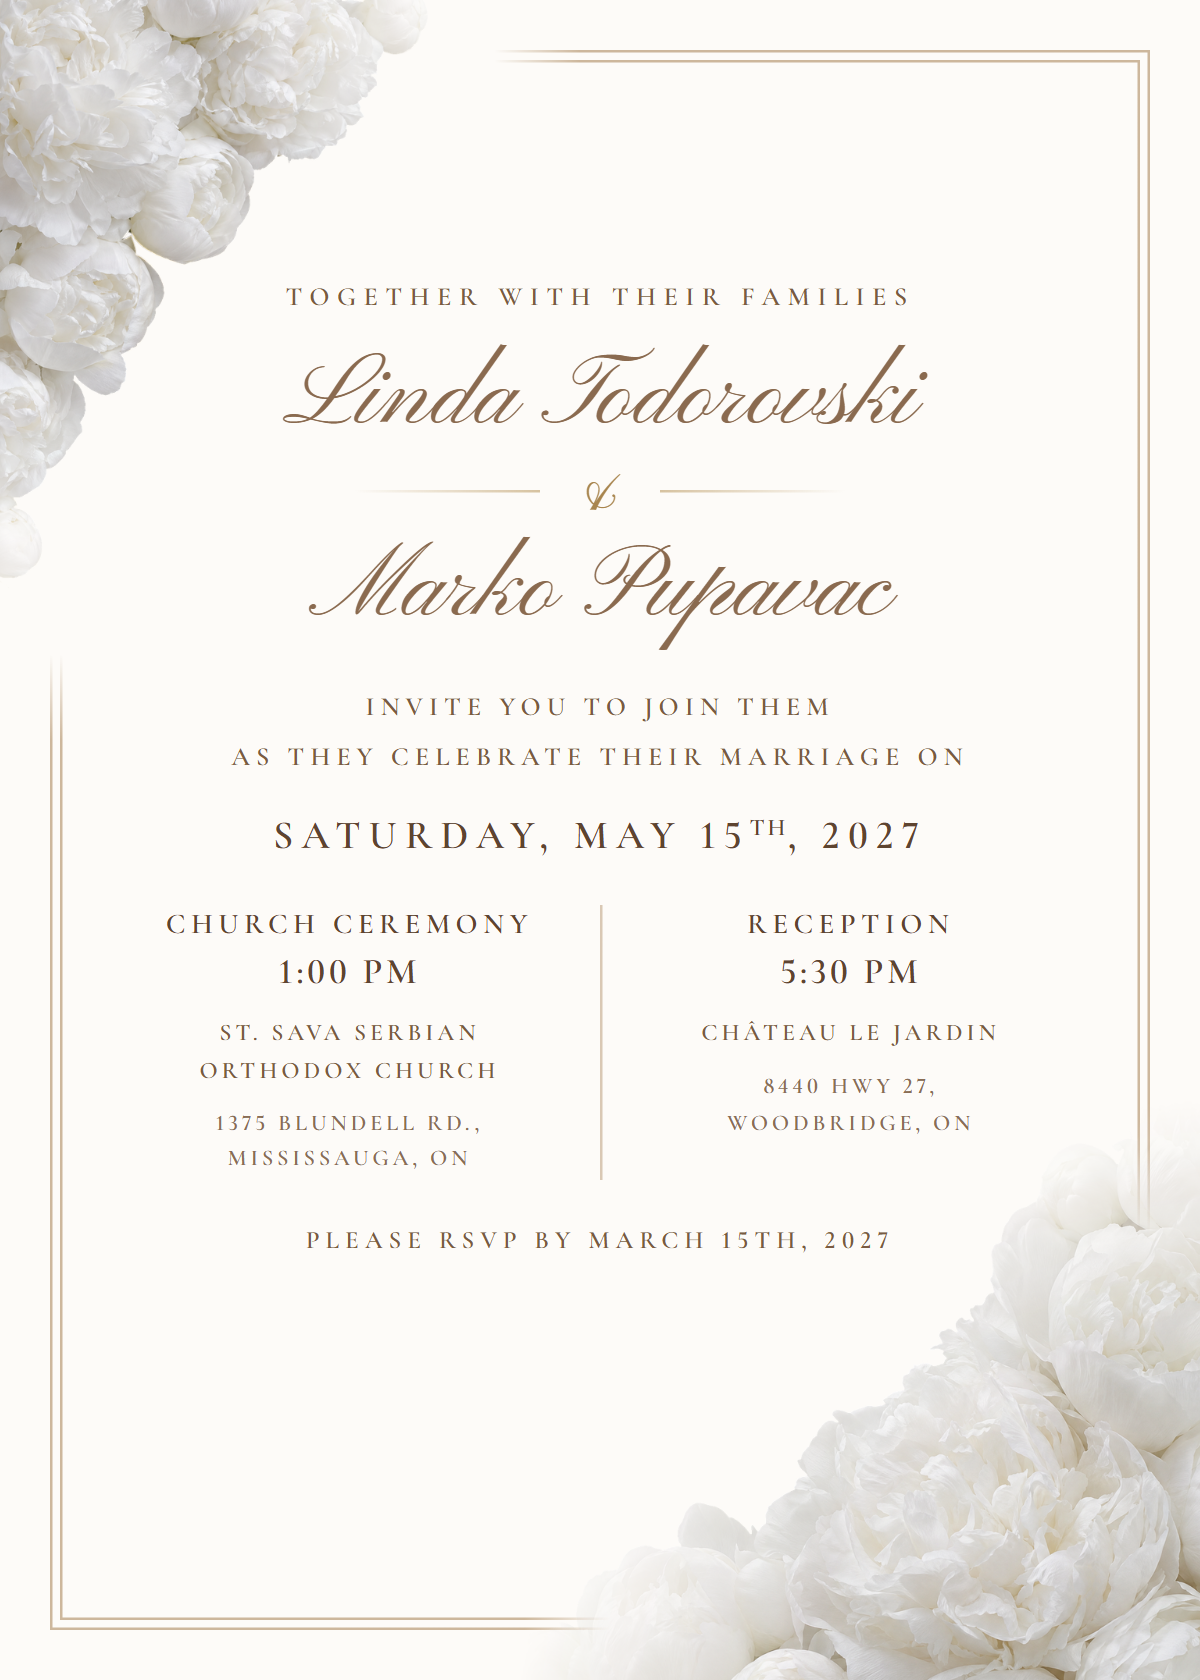
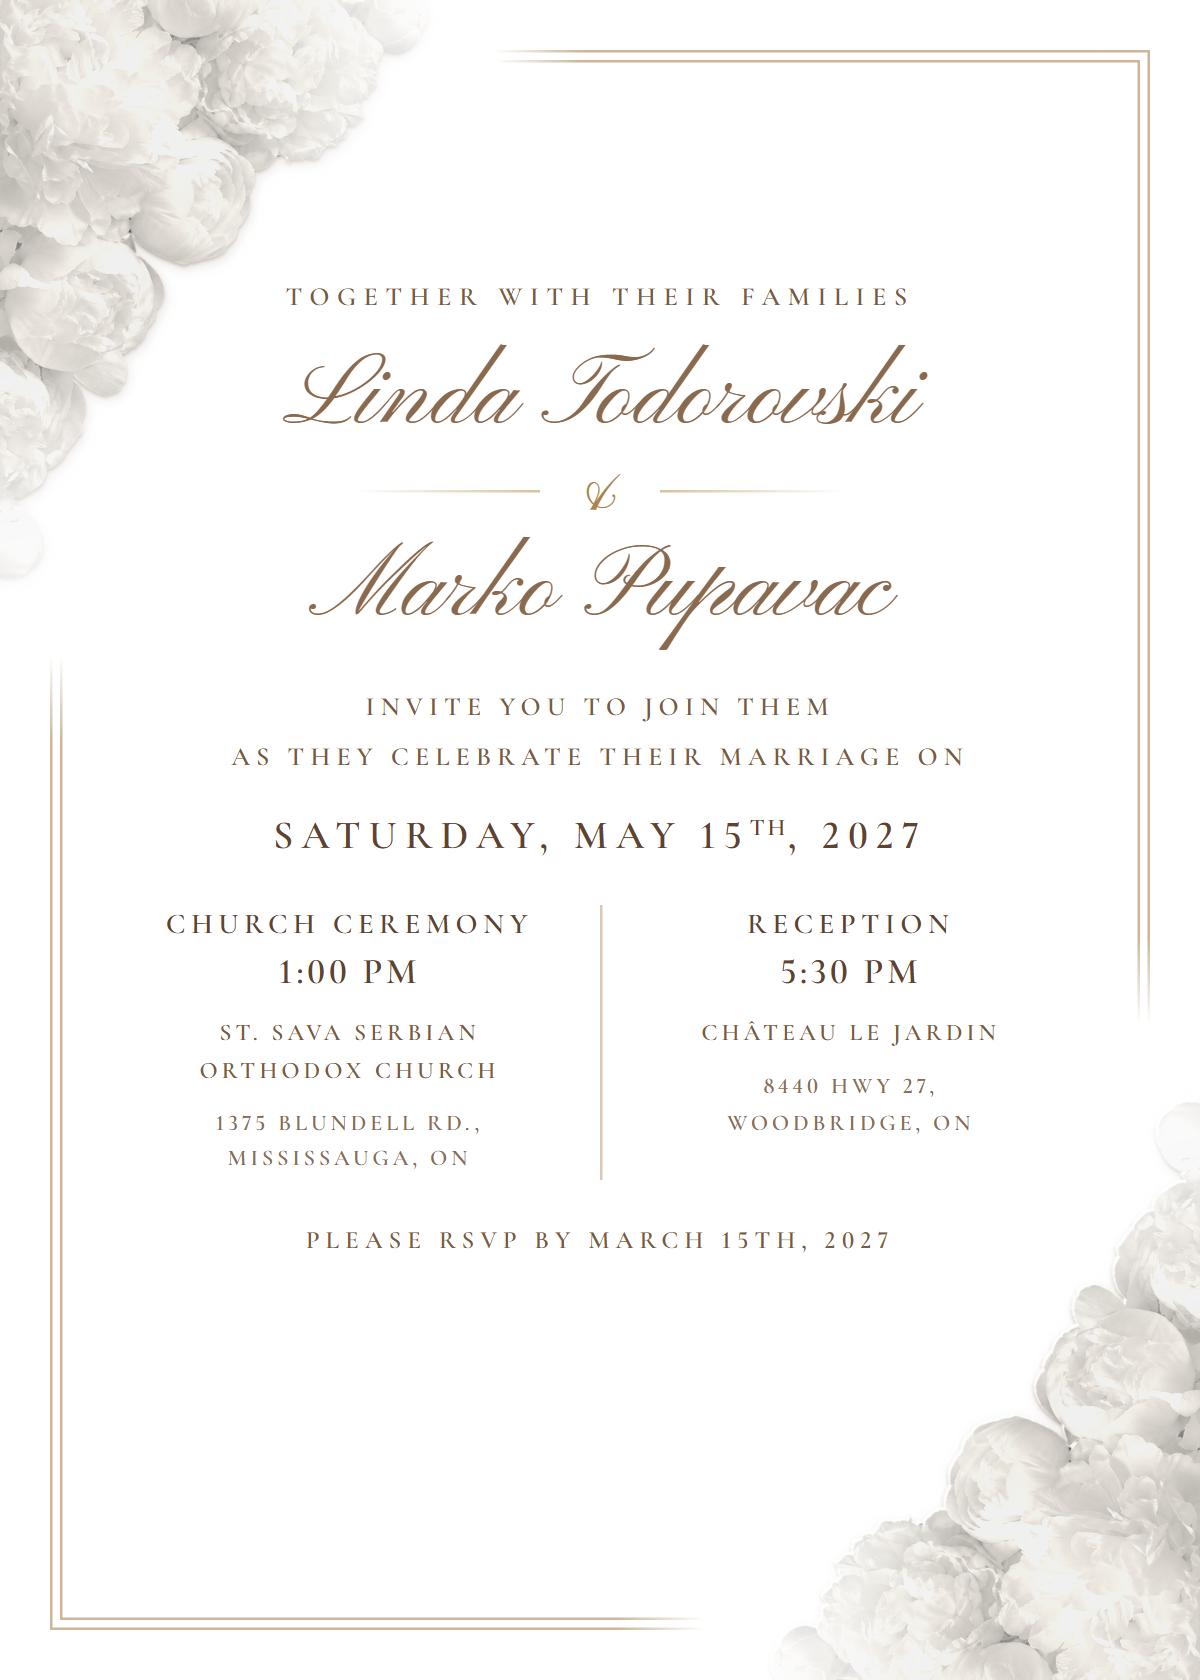
Embossed printed invitation with L & M monogram back
- Printed card on blind-embossed paper (scripts/emboss-paper.mjs, from
  Higgsfield art): a peony in each corner with vines running along the
  border and tapering to tendril tips; border lines break at each peony
- Back of the card: embossed peony wreath with the L & M monogram,
  centred on the wreath, and the date
- /admin/print and scripts/invitation-art.mjs output front and back
  (two-page PDF, 300 dpi PNG of each side)
- Invitation background is pure white; email card keeps the
  photographed peonies

diff --git a/lib/invitation-card.ts b/lib/invitation-card.ts
@@ -1,13 +1,15 @@
 // The invitation card, laid out like the printed original: double-line border, the original wording
-// and order, the two-column ceremony / reception block, and real white peonies in the top-left corner
-// and along the bottom border, fading softly into the paper.
+// and order, and the two-column ceremony / reception block.
 //
 // One template, two uses:
-//   - print: a 5 x 7 in card with a "Scan to RSVP" QR code (app/admin/print, scripts/invitation-art.mjs)
-//   - digital: the same card without the QR, as the centrepiece of the invitation email
+//   - print (emboss: true): a 5 x 7 in card on blind-embossed paper (peonies with vines running along the
+//     border, built by scripts/emboss-paper.mjs), a "Scan to RSVP" QR code, and an L & M monogram wreath on
+//     the back (back: true)
+//   - digital: the card with the photographed white peonies in the top-left and bottom-right corners, as
+//     the centrepiece of the invitation email
 // Self-contained (no app imports) so the Node render script can load it too.
 
-export type CardArt = { corner: string; border: string };
+export type CardArt = { corner: string; border: string; paperFront?: string; paperBack?: string };
 
 const FONTS =
   '<link rel="preconnect" href="https://fonts.googleapis.com"><link href="https://fonts.googleapis.com/css2?family=Cormorant+Garamond:wght@500;600&family=Pinyon+Script&display=block" rel="stylesheet">';
@@ -15,48 +17,97 @@ const FONTS =
 /** Card is drawn at 480 x 672 CSS px = 5 x 7 in at 96 px/in. */
 export const CARD = { width: 480, height: 672 } as const;
 
-export function invitationCardHtml({ art, qrSvg, page = false }: { art: CardArt; qrSvg?: string; page?: boolean }) {
+export function invitationCardHtml({
+  art,
+  qrSvg,
+  page = false,
+  emboss = false,
+  back = false,
+}: {
+  art: CardArt;
+  qrSvg?: string;
+  page?: boolean;
+  /** use the embossed paper (art.paperFront) instead of the photographed peonies */
+  emboss?: boolean;
+  /** add the monogram back of the card (art.paperBack) */
+  back?: boolean;
+}) {
   const qr = qrSvg
     ? `<div class="qr"><div class="qr-code">${qrSvg}</div><div class="qr-label">Scan to RSVP</div></div>`
     : "";
+  const flowers = emboss
+    ? ""
+    : `<div class="corner"><img src="${art.corner}" alt=""></div>
+  <div class="border"><img src="${art.border}" alt=""></div>`;
+  const backCard = back
+    ? `<div class="sheet-gap"></div>
+<div class="card back">
+  <div class="mono" aria-label="L and M"><span class="l">L</span><span class="a">&amp;</span><span class="l">M</span></div>
+  <p class="back-date">May 15th, 2027</p>
+</div>`
+    : "";
+  const bar = page
+    ? `<div class="bar"><p>Your printable invitation (5 × 7 in)${back ? ", front and back" : ""}. Print it ${back ? "double-sided " : ""}on cardstock, or choose <b>Save as PDF</b> to send it to a print shop.</p><p style="margin-top:10px"><button onclick="window.print()">Print or save as PDF</button></p></div>`
+    : "";
+
   return `<!doctype html>
 <html lang="en"><head><meta charset="utf-8"><title>Linda &amp; Marko · Invitation</title>${FONTS}
 <style>
   @page { size: 5in 7in; margin: 0; }
   * { margin: 0; padding: 0; box-sizing: border-box; }
-  html, body { background: ${page ? "#ece5dc" : "#fdfbf8"}; }
+  html, body { background: ${page ? "#ece5dc" : "#ffffff"}; }
   body { font-family: 'Cormorant Garamond', Georgia, serif; color: #6f5440; -webkit-font-smoothing: antialiased;
     font-variant-numeric: lining-nums; -webkit-print-color-adjust: exact; print-color-adjust: exact; }
-  ${page ? `body { min-height: 100vh; display: grid; place-items: center; gap: 18px; padding: 32px 16px; }
-  .bar { font-family: system-ui, sans-serif; font-size: 14px; color: #5e4430; text-align: center; max-width: 480px; line-height: 1.5; }
+  ${
+    page
+      ? `body { min-height: 100vh; display: flex; flex-direction: column; align-items: center; padding: 32px 16px; }
+  .bar { font-family: system-ui, sans-serif; font-size: 14px; color: #5e4430; text-align: center; max-width: 480px; line-height: 1.5; margin-bottom: 18px; }
   .bar button { font: inherit; font-weight: 600; padding: 10px 22px; border-radius: 999px; border: 0; background: #5e4430; color: #fff; cursor: pointer; }
   .card { box-shadow: 0 2px 6px rgb(94 68 48 / .08), 0 30px 60px -30px rgb(94 68 48 / .35); }
-  @media print { html, body { background: #fdfbf8; } body { display: block; padding: 0; min-height: 0; } .bar { display: none; } .card { box-shadow: none; } }` : ""}
+  @media print { html, body { background: #ffffff; } body { display: block; padding: 0; min-height: 0; } .bar { display: none; } .card { box-shadow: none; } }`
+      : ""
+  }
 
-  .card { position: relative; width: ${CARD.width}px; height: ${CARD.height}px; overflow: hidden; background: #fdfbf8; break-inside: avoid; }
-  /* The double border, drawn as separate lines so each one stops short of the peonies with a
-     short, clean taper (like a printed frame broken by florals) instead of running under them. */
+  .card { position: relative; width: ${CARD.width}px; height: ${CARD.height}px; overflow: hidden; background: #ffffff; break-inside: avoid; }
+  .sheet-gap { height: 24px; }
+  @media print { .sheet-gap { display: none; } .card.back { break-before: page; } }
+
+  /* The double border, drawn as separate lines so each one stops short of the peonies with a short,
+     clean taper (like a printed frame broken by florals). */
   .ln { position: absolute; --c: #cdb79c; --t: 34px; }
   .ln.h { height: 1px; }
   .ln.v { width: 1px; }
-  /* top + right: begin after the top-left spray, end above the bottom-right cluster */
   .ln.top { top: var(--o); left: 198px; right: var(--o); background: linear-gradient(90deg, transparent, var(--c) var(--t)); }
-  .ln.right { right: var(--o); top: var(--o); bottom: 178px; background: linear-gradient(180deg, var(--c) calc(100% - var(--t)), transparent); }
-  /* left + bottom: begin below the top-left spray, end before the bottom-right cluster */
+  .ln.right { right: var(--o); top: var(--o); bottom: 262px; background: linear-gradient(180deg, var(--c) calc(100% - var(--t)), transparent); }
   .ln.left { left: var(--o); top: 262px; bottom: var(--o); background: linear-gradient(180deg, transparent, var(--c) var(--t)); }
-  .ln.bottom { bottom: var(--o); left: var(--o); right: 236px; background: linear-gradient(90deg, var(--c) calc(100% - var(--t)), transparent); }
+  .ln.bottom { bottom: var(--o); left: var(--o); right: 198px; background: linear-gradient(90deg, var(--c) calc(100% - var(--t)), transparent); }
   .outer { --o: 20px; }
   .inner { --o: 24px; }
 
-  /* the peonies: one spray in the top-left corner, a low garland along the bottom border;
-     both fade out into the paper rather than stopping at an edge */
+  /* Printed card: the embossed paper carries the flowers; the border runs along the vines and only
+     breaks at the two peonies, like the original. */
+  .card.emboss { background: #fff url("${art.paperFront ?? ""}") center / 100% 100% no-repeat; }
+  /* a peony in every corner: each line breaks at both ends with a short taper, and runs along the vines */
+  .card.emboss .ln { --t: 22px; }
+  .card.emboss .ln.h { background: linear-gradient(90deg, transparent, var(--c) var(--t), var(--c) calc(100% - var(--t)), transparent); }
+  .card.emboss .ln.v { background: linear-gradient(180deg, transparent, var(--c) var(--t), var(--c) calc(100% - var(--t)), transparent); }
+  .card.emboss .ln.top { left: 112px; right: 128px; }
+  .card.emboss .ln.bottom { left: 128px; right: 128px; }
+  .card.emboss .ln.left { top: 118px; bottom: 116px; }
+  .card.emboss .ln.right { top: 116px; bottom: 116px; }
+
+  /* Digital card: the photographed peonies, whitened and raised like an emboss. */
   .corner { position: absolute; top: -14px; left: -18px; width: 200px;
     -webkit-mask-image: radial-gradient(118% 105% at 0% 0%, #000 52%, transparent 86%);
             mask-image: radial-gradient(118% 105% at 0% 0%, #000 52%, transparent 86%); }
-  .border { position: absolute; right: -22px; bottom: -18px; width: 300px;
-    -webkit-mask-image: radial-gradient(120% 110% at 100% 100%, #000 46%, transparent 82%);
-            mask-image: radial-gradient(120% 110% at 100% 100%, #000 46%, transparent 82%); }
-  .corner img, .border img { display: block; width: 100%; height: auto; }
+  .border { position: absolute; right: -18px; bottom: -14px; width: 200px;
+    -webkit-mask-image: radial-gradient(118% 105% at 100% 100%, #000 52%, transparent 86%);
+            mask-image: radial-gradient(118% 105% at 100% 100%, #000 52%, transparent 86%); }
+  .corner img, .border img { display: block; width: 100%; height: auto;
+    filter: grayscale(1) sepia(0.14) brightness(1.13) contrast(0.88)
+      drop-shadow(-0.7px -0.7px 0 rgba(255, 255, 255, 0.95))
+      drop-shadow(0.8px 1.1px 0.6px rgba(110, 86, 64, 0.32))
+      drop-shadow(1.6px 2.4px 2.2px rgba(110, 86, 64, 0.16)); }
 
   .text { position: absolute; inset: 0; display: flex; flex-direction: column; align-items: center;
     padding: ${qrSvg ? "94px" : "112px"} 56px 0; text-align: center; }
@@ -80,17 +131,28 @@ export function invitationCardHtml({ art, qrSvg, page = false }: { art: CardArt;
   .col .addr { margin-top: 7px; font-size: 9px; font-weight: 600; letter-spacing: 1.5px; line-height: 1.6; color: #8a6d55; }
   .rsvp { margin-top: 18px; font-size: 10px; font-weight: 600; letter-spacing: 2.4px; color: #7a5b41; }
   .qr { margin-top: 12px; display: flex; flex-direction: column; align-items: center; gap: 5px; }
-  .qr-code { width: 68px; height: 68px; padding: 4px; background: #fffdfa; border: 1px solid #e3d5c4; border-radius: 6px; }
+  .qr-code { width: 68px; height: 68px; padding: 4px; background: #ffffff; border: 1px solid #e3d5c4; border-radius: 6px; }
   .qr-code svg { display: block; width: 100%; height: 100%; }
   .qr-label { font-size: 8.5px; font-weight: 600; letter-spacing: 2.2px; text-transform: uppercase; color: #7a5b41; }
+
+  /* The back: the embossed peony wreath with the couple's monogram in its centre. */
+  .card.back { background: #fff url("${art.paperBack ?? ""}") center / 100% 100% no-repeat; }
+  /* centred on the wreath's measured centre (x 238.6, y 315 of the 480 x 672 card) and sized to sit
+     inside its open middle (about 83 px clear in every direction) */
+  .mono { position: absolute; left: 238.6px; top: 315px; transform: translate(-50%, -50%);
+    display: flex; align-items: baseline; justify-content: center; white-space: nowrap;
+    font-family: 'Pinyon Script', cursive; color: #8a6a4f; line-height: 1; }
+  .mono .l { font-size: 60px; }
+  .mono .a { font-size: 30px; color: #a8854e; margin: 0 4px; }
+  .back-date { position: absolute; left: 0; right: 0; bottom: 70px; text-align: center;
+    font-size: 10px; font-weight: 600; letter-spacing: 3.4px; text-transform: uppercase; color: #8a6d55; }
 </style></head>
 <body>
-${page ? `<div class="bar"><p>Your printable invitation (5 × 7 in). Print it on cardstock, or choose <b>Save as PDF</b> to send it to a print shop.</p><p style="margin-top:10px"><button onclick="window.print()">Print or save as PDF</button></p></div>` : ""}
-<div class="card">
+${bar}
+<div class="card${emboss ? " emboss" : ""}">
   <div class="ln h top outer"></div><div class="ln v right outer"></div><div class="ln v left outer"></div><div class="ln h bottom outer"></div>
   <div class="ln h top inner"></div><div class="ln v right inner"></div><div class="ln v left inner"></div><div class="ln h bottom inner"></div>
-  <div class="corner"><img src="${art.corner}" alt=""></div>
-  <div class="border"><img src="${art.border}" alt=""></div>
+  ${flowers}
   <div class="text">
     <p class="together caps">Together with their families</p>
     <p class="names first">Linda Todorovski</p>
@@ -117,5 +179,6 @@ ${page ? `<div class="bar"><p>Your printable invitation (5 × 7 in). Print it on
     ${qr}
   </div>
 </div>
+${backCard}
 </body></html>`;
 }

diff --git a/lib/email.ts b/lib/email.ts
@@ -29,7 +29,7 @@ const isPublic = (url: string) => {
 
 const C = {
   page: "#efe8df",
-  paper: "#fdfbf8",
+  paper: "#ffffff",
   ink: "#5e4430",
   body: "#7a5b41",
   muted: "#7d6049",
